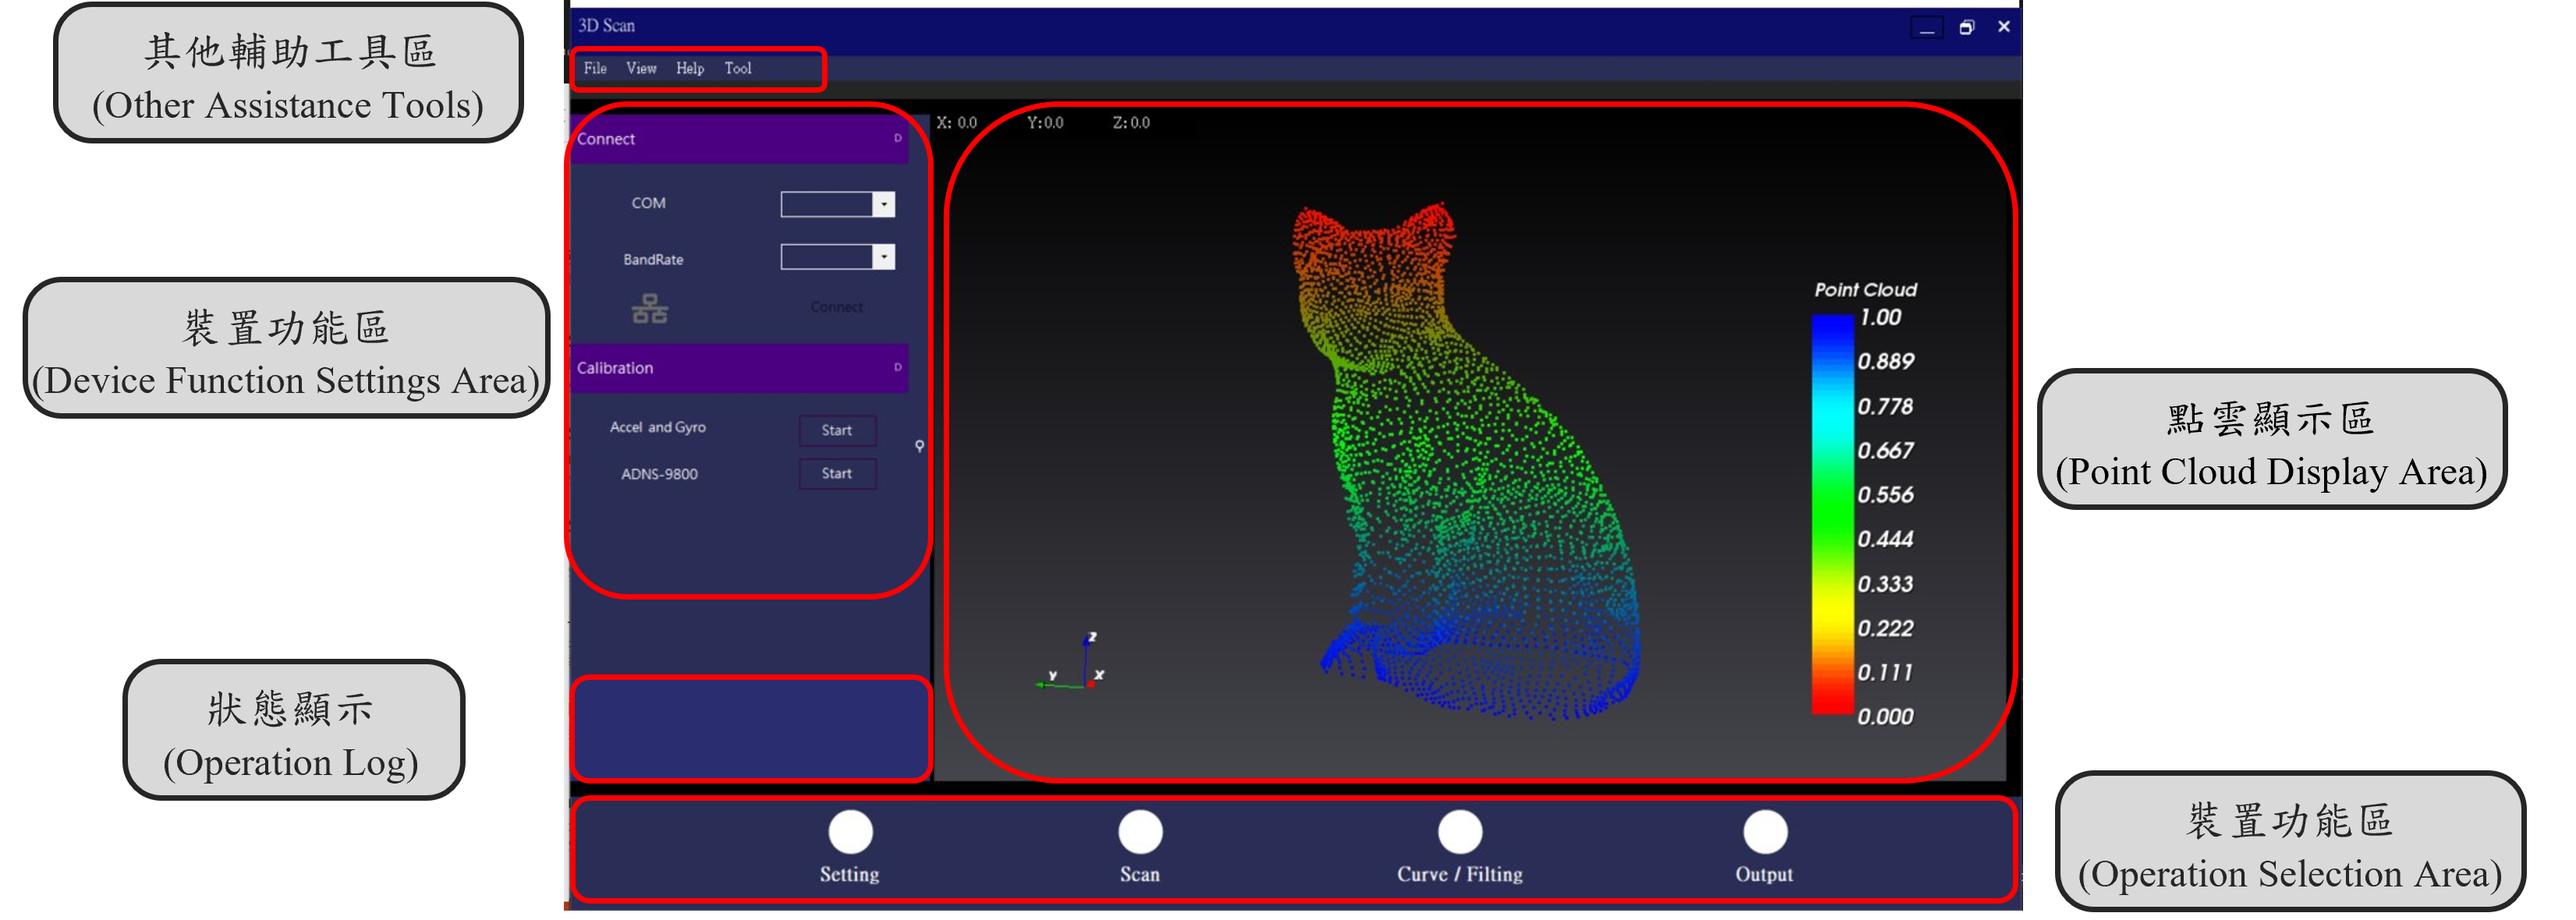
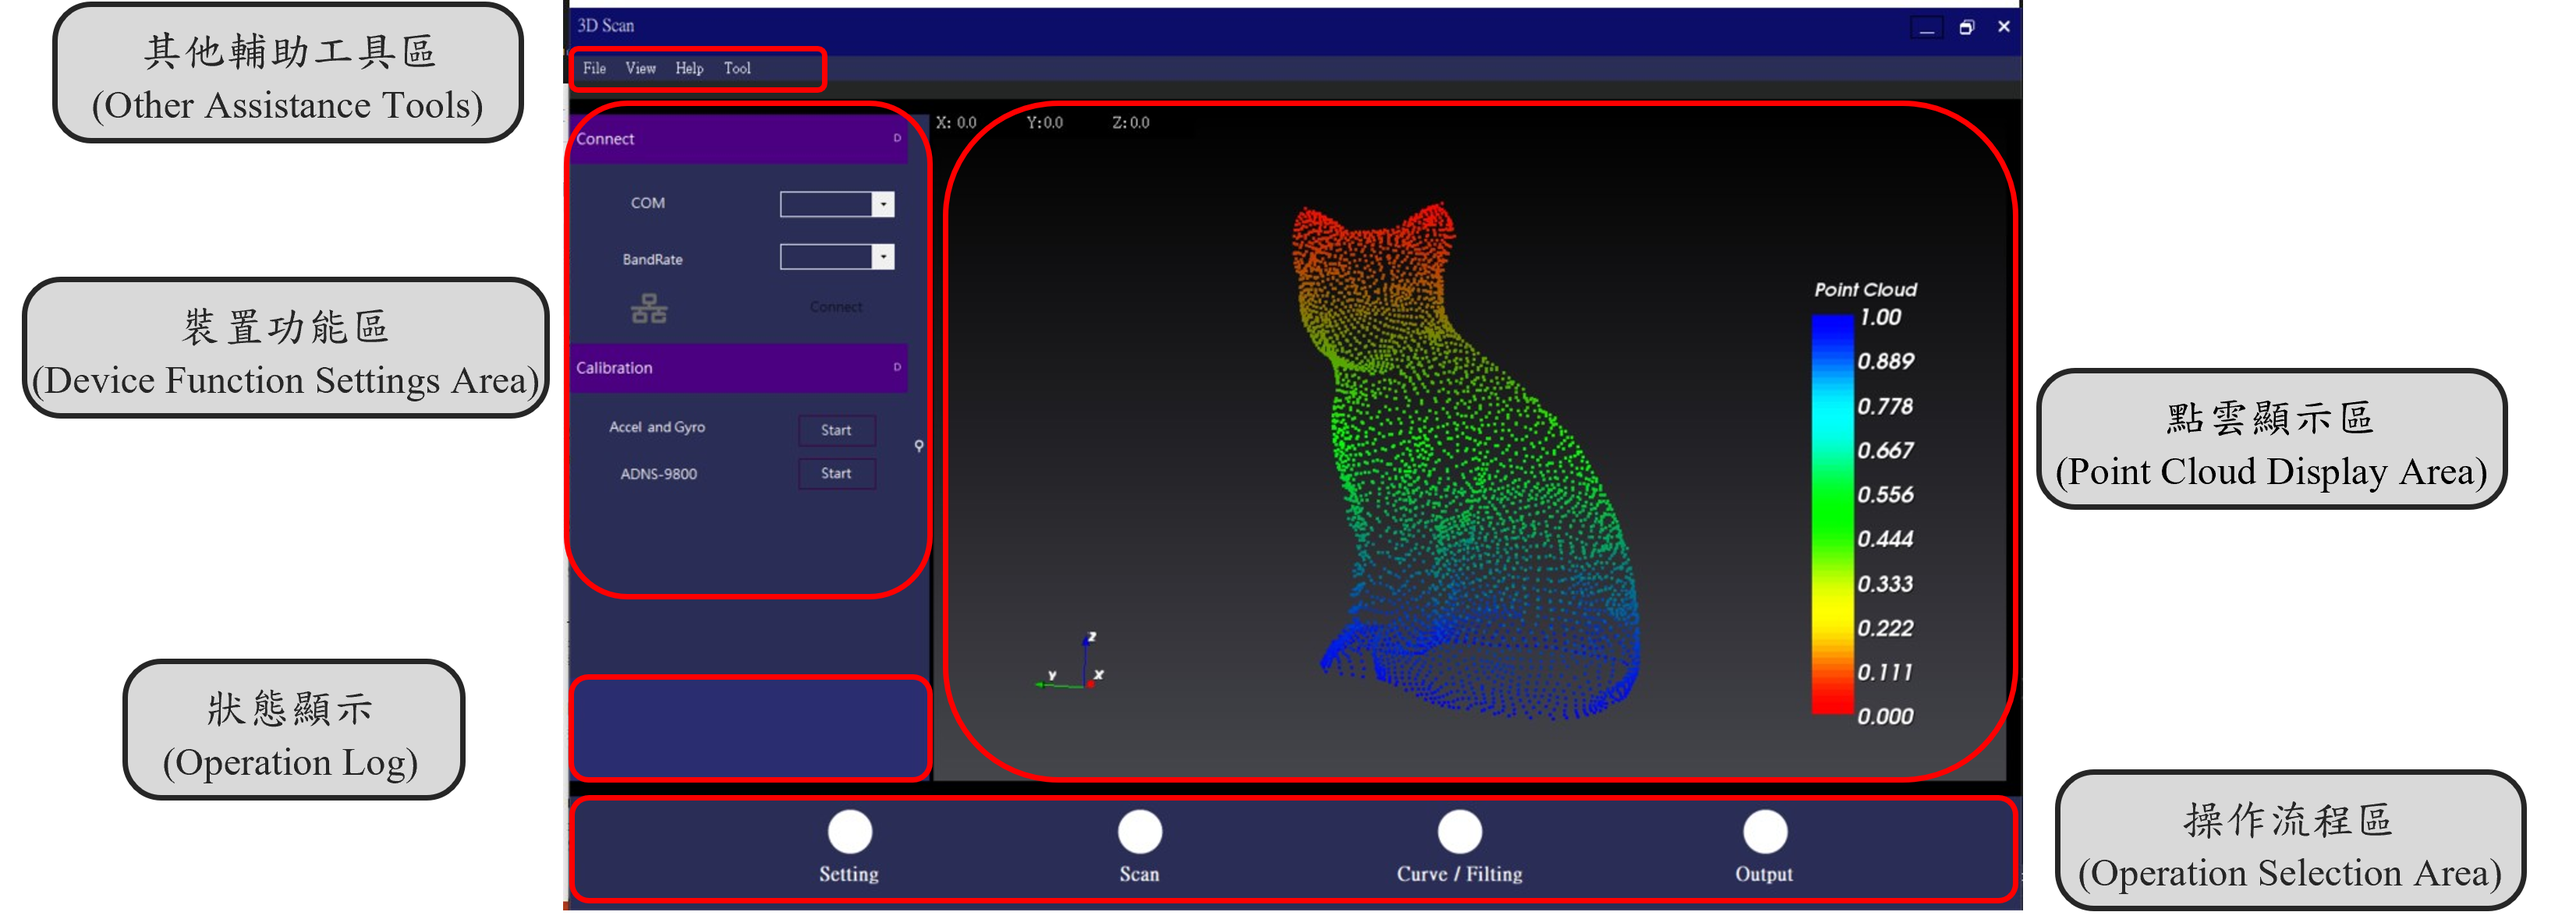
list

diff --git a/readme.md b/readme.md
@@ -1,6 +1,5 @@
 <!--底下標籤來源參考寫法可至：https://github.com/Envoy-VC/awesome-badges#github-stats -->
 
-![](https://img.shields.io/badge/Accord-3.8.2-blue) &nbsp; ![](https://img.shields.io/badge/Activiz.NET-5.8.0-blue) &nbsp; ![](https://img.shields.io/badge/FontAwesome.Sharp-6.6.0-blue) &nbsp; ![](https://img.shields.io/badge/OxyPlot-1.0.0-blue) &nbsp; ![](https://img.shields.io/badge/PCL-1.12.0-greenyellow) 
 
 
 ## 介紹
@@ -12,9 +11,24 @@
 
 主要功能為即時顯示掃描後的點雲數據
 
+- ### 裝置功能區
+包含與感測裝置通訊的基礎設置與校正慣性感測器與光學位移感測器的功能按鈕
+![不同頁面](doc/SubMode_total.png)
+- ### 狀態顯示
+顯示操作本系統的執行日誌，用以確認當下執行流程與程式執行狀態
+- ### 操作流程區
+從左至右依序執行點雲掃描流程，從一開始的基礎設定 `"Setting"`，接續掃描點雲數據的 `"Scan"`，掃描後的點雲數據預處理 `"Curve/Filting"`，最後依特定格式輸出的 `"Output"`
+- ### 點雲顯示區
+顯示操作本系統的執行日誌，用以確認當下執行流程與程式執行狀態
 
 
 > ps. 需與本研究自主開發的 3D 點雲擷取設備搭配使用
+
+## 功能
+
+
+## 第三方開源函式庫
+![](https://img.shields.io/badge/Accord-3.8.2-blue) &nbsp; ![](https://img.shields.io/badge/Activiz.NET-5.8.0-blue) &nbsp; ![](https://img.shields.io/badge/FontAwesome.Sharp-6.6.0-blue) &nbsp; ![](https://img.shields.io/badge/OxyPlot-1.0.0-blue) &nbsp; ![](https://img.shields.io/badge/PCL-1.12.0-greenyellow) 
 
 ## 功能
 
